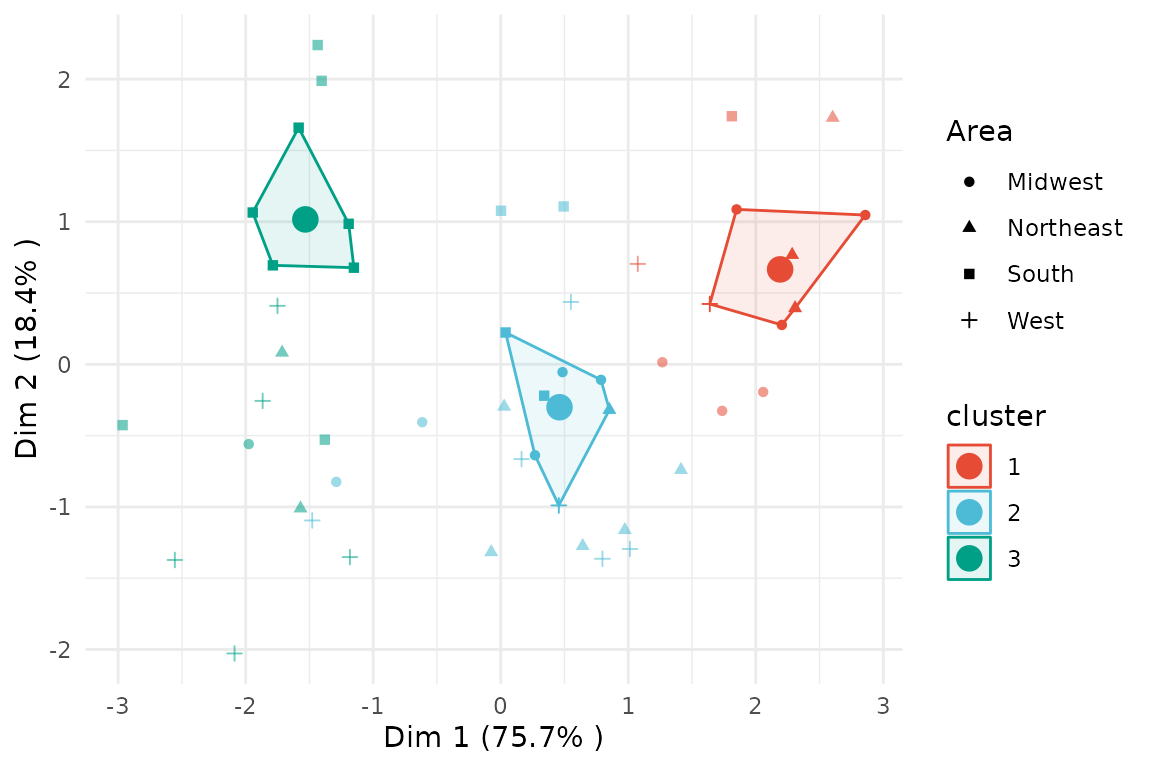
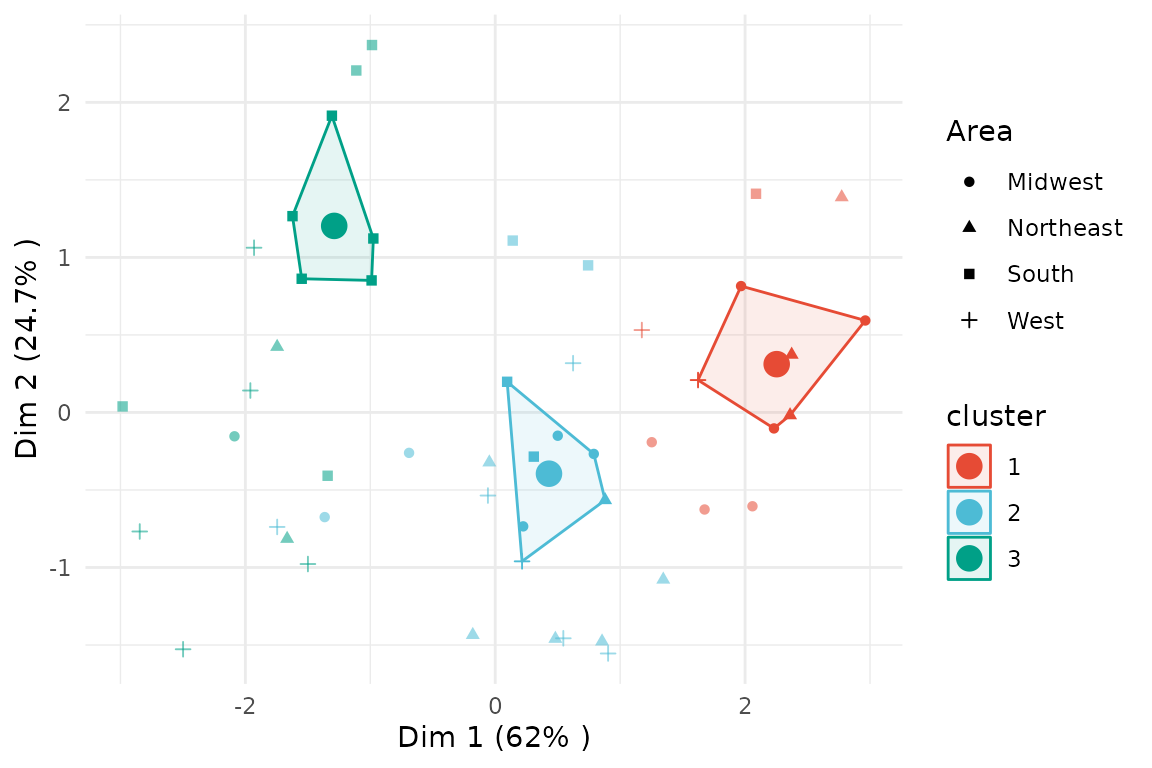
Built site for fuzzyclara: 0.1@7403f5c

diff --git a/articles/vignette_shiny.html b/articles/vignette_shiny.html
@@ -230,7 +230,7 @@
 <span>                       verbose         <span class="op">=</span> <span class="fl">0</span><span class="op">)</span></span>
 <span><span class="va">cc_number</span></span></code></pre></div>
 <p><img src="vignette_shiny_files/figure-html/optimal%20number%20clusters-1.png" width="576"></p>
-<iframe data-deferred-src="appbe5b0ff37b0c2ef01b2c087abdcf3894/?w=&amp;__subapp__=1" width="600" height="800" class="shiny-frame shiny-frame-deferred"></iframe>
+<iframe data-deferred-src="app111688e13c1d54a4480ce5ef170bd431/?w=&amp;__subapp__=1" width="600" height="800" class="shiny-frame shiny-frame-deferred"></iframe>
 </div>
 </div>
 <div class="section level2">
@@ -262,7 +262,7 @@
 <div class="sourceCode" id="section-cb14"><pre class="downlit sourceCode r">
 <code class="sourceCode R"><span><span class="fu"><a href="https://rdrr.io/r/graphics/plot.default.html" class="external-link">plot</a></span><span class="op">(</span>x <span class="op">=</span> <span class="va">cc_fuzzy</span>, data <span class="op">=</span> <span class="va">USArrests_enriched</span>, variable <span class="op">=</span> <span class="st">"Assault"</span><span class="op">)</span> </span></code></pre></div>
 <p><img src="vignette_shiny_files/figure-html/unnamed-chunk-1-1.png" width="576"></p>
-<iframe data-deferred-src="app6780f5d2adc43734539debff152a08a4/?w=&amp;__subapp__=1" width="600" height="800" class="shiny-frame shiny-frame-deferred"></iframe>
+<iframe data-deferred-src="app7cda35debe15dde5149c924ae0c67982/?w=&amp;__subapp__=1" width="600" height="800" class="shiny-frame shiny-frame-deferred"></iframe>
 </div>
 <div class="section level3">
 <h3 id="section-barplot">Barplot<a class="anchor" aria-label="anchor" href="#section-barplot"></a>
@@ -270,7 +270,7 @@
 <div class="sourceCode" id="section-cb15"><pre class="downlit sourceCode r">
 <code class="sourceCode R"><span><span class="fu"><a href="https://rdrr.io/r/graphics/plot.default.html" class="external-link">plot</a></span><span class="op">(</span>x <span class="op">=</span> <span class="va">cc_fuzzy</span>, data <span class="op">=</span> <span class="va">USArrests_enriched</span>, variable <span class="op">=</span> <span class="st">"Area"</span><span class="op">)</span></span></code></pre></div>
 <p><img src="vignette_shiny_files/figure-html/unnamed-chunk-3-1.png" width="576"></p>
-<iframe data-deferred-src="app4af3b460d44a6eb609456339965153a5/?w=&amp;__subapp__=1" width="600" height="800" class="shiny-frame shiny-frame-deferred"></iframe>
+<iframe data-deferred-src="app7d72c5f6b12bee902da95a2515db30fe/?w=&amp;__subapp__=1" width="600" height="800" class="shiny-frame shiny-frame-deferred"></iframe>
 </div>
 <div class="section level3">
 <h3 id="section-wordcloud">Wordcloud<a class="anchor" aria-label="anchor" href="#section-wordcloud"></a>
@@ -288,7 +288,7 @@
 <span>     x_var <span class="op">=</span> <span class="st">"Murder"</span>, y_var <span class="op">=</span> <span class="st">"Assault"</span><span class="op">)</span></span></code></pre></div>
 <pre><code><span><span class="co">## `geom_smooth()` using formula 'y ~ x'</span></span></code></pre>
 <p><img src="vignette_shiny_files/figure-html/unnamed-chunk-6-1.png" width="576"></p>
-<iframe data-deferred-src="app14be7bc199035ebd69ab985b38b0b5b8/?w=&amp;__subapp__=1" width="600" height="800" class="shiny-frame shiny-frame-deferred"></iframe>
+<iframe data-deferred-src="appe0a0d6f6043fb62624363e618fd2216c/?w=&amp;__subapp__=1" width="600" height="800" class="shiny-frame shiny-frame-deferred"></iframe>
 <div class="sourceCode" id="section-cb19"><pre class="downlit sourceCode r">
 <code class="sourceCode R"><span><span class="fu"><a href="https://rdrr.io/r/graphics/plot.default.html" class="external-link">plot</a></span><span class="op">(</span>x <span class="op">=</span> <span class="va">cc_fuzzy</span>, data <span class="op">=</span> <span class="va">USArrests_enriched</span>, type <span class="op">=</span> <span class="st">"scatterplot"</span>,</span>
 <span>     x_var <span class="op">=</span> <span class="st">"Murder"</span>, y_var <span class="op">=</span> <span class="st">"Assault"</span>, </span>
@@ -302,7 +302,7 @@
 <code class="sourceCode R"><span><span class="fu"><a href="https://rdrr.io/r/graphics/plot.default.html" class="external-link">plot</a></span><span class="op">(</span>x <span class="op">=</span> <span class="va">cc_fuzzy</span>, data <span class="op">=</span> <span class="va">USArrests_enriched</span>, type <span class="op">=</span> <span class="st">"pca"</span>,</span>
 <span>     group_by <span class="op">=</span> <span class="st">"Area"</span><span class="op">)</span></span></code></pre></div>
 <p><img src="vignette_shiny_files/figure-html/unnamed-chunk-9-1.png" width="576"></p>
-<iframe data-deferred-src="app486c88eb826da7f943080ea15ea272d7/?w=&amp;__subapp__=1" width="600" height="800" class="shiny-frame shiny-frame-deferred"></iframe>
+<iframe data-deferred-src="app59681fa6f16582d3ad052e0984a6e323/?w=&amp;__subapp__=1" width="600" height="800" class="shiny-frame shiny-frame-deferred"></iframe>
 <div class="sourceCode" id="section-cb21"><pre class="downlit sourceCode r">
 <code class="sourceCode R"><span><span class="fu"><a href="https://rdrr.io/r/graphics/plot.default.html" class="external-link">plot</a></span><span class="op">(</span>x <span class="op">=</span> <span class="va">cc_fuzzy</span>, data <span class="op">=</span> <span class="va">USArrests_enriched</span>, type <span class="op">=</span> <span class="st">"pca"</span>,</span>
 <span>     focus <span class="op">=</span> <span class="cn">TRUE</span><span class="op">)</span></span></code></pre></div>

diff --git a/reference/clara_scatterplot.html b/reference/clara_scatterplot.html
@@ -60,7 +60,7 @@
 <span>  <span class="va">data</span>,</span>
 <span>  <span class="va">x_var</span>,</span>
 <span>  <span class="va">y_var</span>,</span>
-<span>  plot_all_fuzzy <span class="op">=</span> <span class="cn">FALSE</span>,</span>
+<span>  plot_all_fuzzy <span class="op">=</span> <span class="cn">TRUE</span>,</span>
 <span>  transparent_obs <span class="op">=</span> <span class="cn">NULL</span>,</span>
 <span>  alpha_fuzzy <span class="op">=</span> <span class="fl">0.4</span>,</span>
 <span>  focus <span class="op">=</span> <span class="cn">FALSE</span>,</span>
@@ -85,18 +85,17 @@ already filtered by threshold (fuzzy))</p></dd>
 
 <dt>plot_all_fuzzy</dt>
 <dd><p>For fuzzy clustering and threshold: should observations
-below threshold be plottet transparent? The regression line is only based on
-the observations above the threshold. Defaults to FALSE.</p></dd>
+below threshold be plotted transparent? Defaults to TRUE.</p></dd>
 
 
 <dt>transparent_obs</dt>
 <dd><p>data.frame containing observations that are plotted
-transparent, only relevant for <code>plot_all_fuzzy = TRUE</code>.</p></dd>
+transparent, only relevant for fuzzy clustering and <code>focus = FALSE</code>.</p></dd>
 
 
 <dt>alpha_fuzzy</dt>
 <dd><p>Alpha value for observations below threshold, only
-relevant for <code>plot_all_fuzzy = TRUE</code>. Defaults to 0.4.</p></dd>
+relevant for fuzzy clustering and <code>focus = FALSE</code>. Defaults to 0.4.</p></dd>
 
 
 <dt>focus</dt>

diff --git a/reference/clara_pca.html b/reference/clara_pca.html
@@ -59,7 +59,7 @@
 <span>  <span class="va">x</span>,</span>
 <span>  <span class="va">data</span>,</span>
 <span>  group_by <span class="op">=</span> <span class="cn">NULL</span>,</span>
-<span>  plot_all_fuzzy <span class="op">=</span> <span class="cn">FALSE</span>,</span>
+<span>  plot_all_fuzzy <span class="op">=</span> <span class="cn">TRUE</span>,</span>
 <span>  transparent_obs <span class="op">=</span> <span class="cn">NULL</span>,</span>
 <span>  alpha_fuzzy <span class="op">=</span> <span class="fl">0.4</span>,</span>
 <span>  focus <span class="op">=</span> <span class="cn">FALSE</span>,</span>
@@ -84,8 +84,7 @@ already filtered by threshold (fuzzy))</p></dd>
 
 <dt>plot_all_fuzzy</dt>
 <dd><p>For fuzzy clustering and threshold: should observations
-below threshold be plottet transparent? PCA is performed based on the
-observations above the threshold. Defaults to FALSE.</p></dd>
+below threshold be plotted transparent? Defaults to TRUE.</p></dd>
 
 
 <dt>transparent_obs</dt>
@@ -106,7 +105,7 @@ to the respective cluster. Defaults to FALSE.</p></dd>
 
 <dt>focus_clusters</dt>
 <dd><p>Optional vector of integers to focus on specific
-clusters</p></dd>
+clusters.</p></dd>
 
 </dl></div>
     <div class="section level2">
